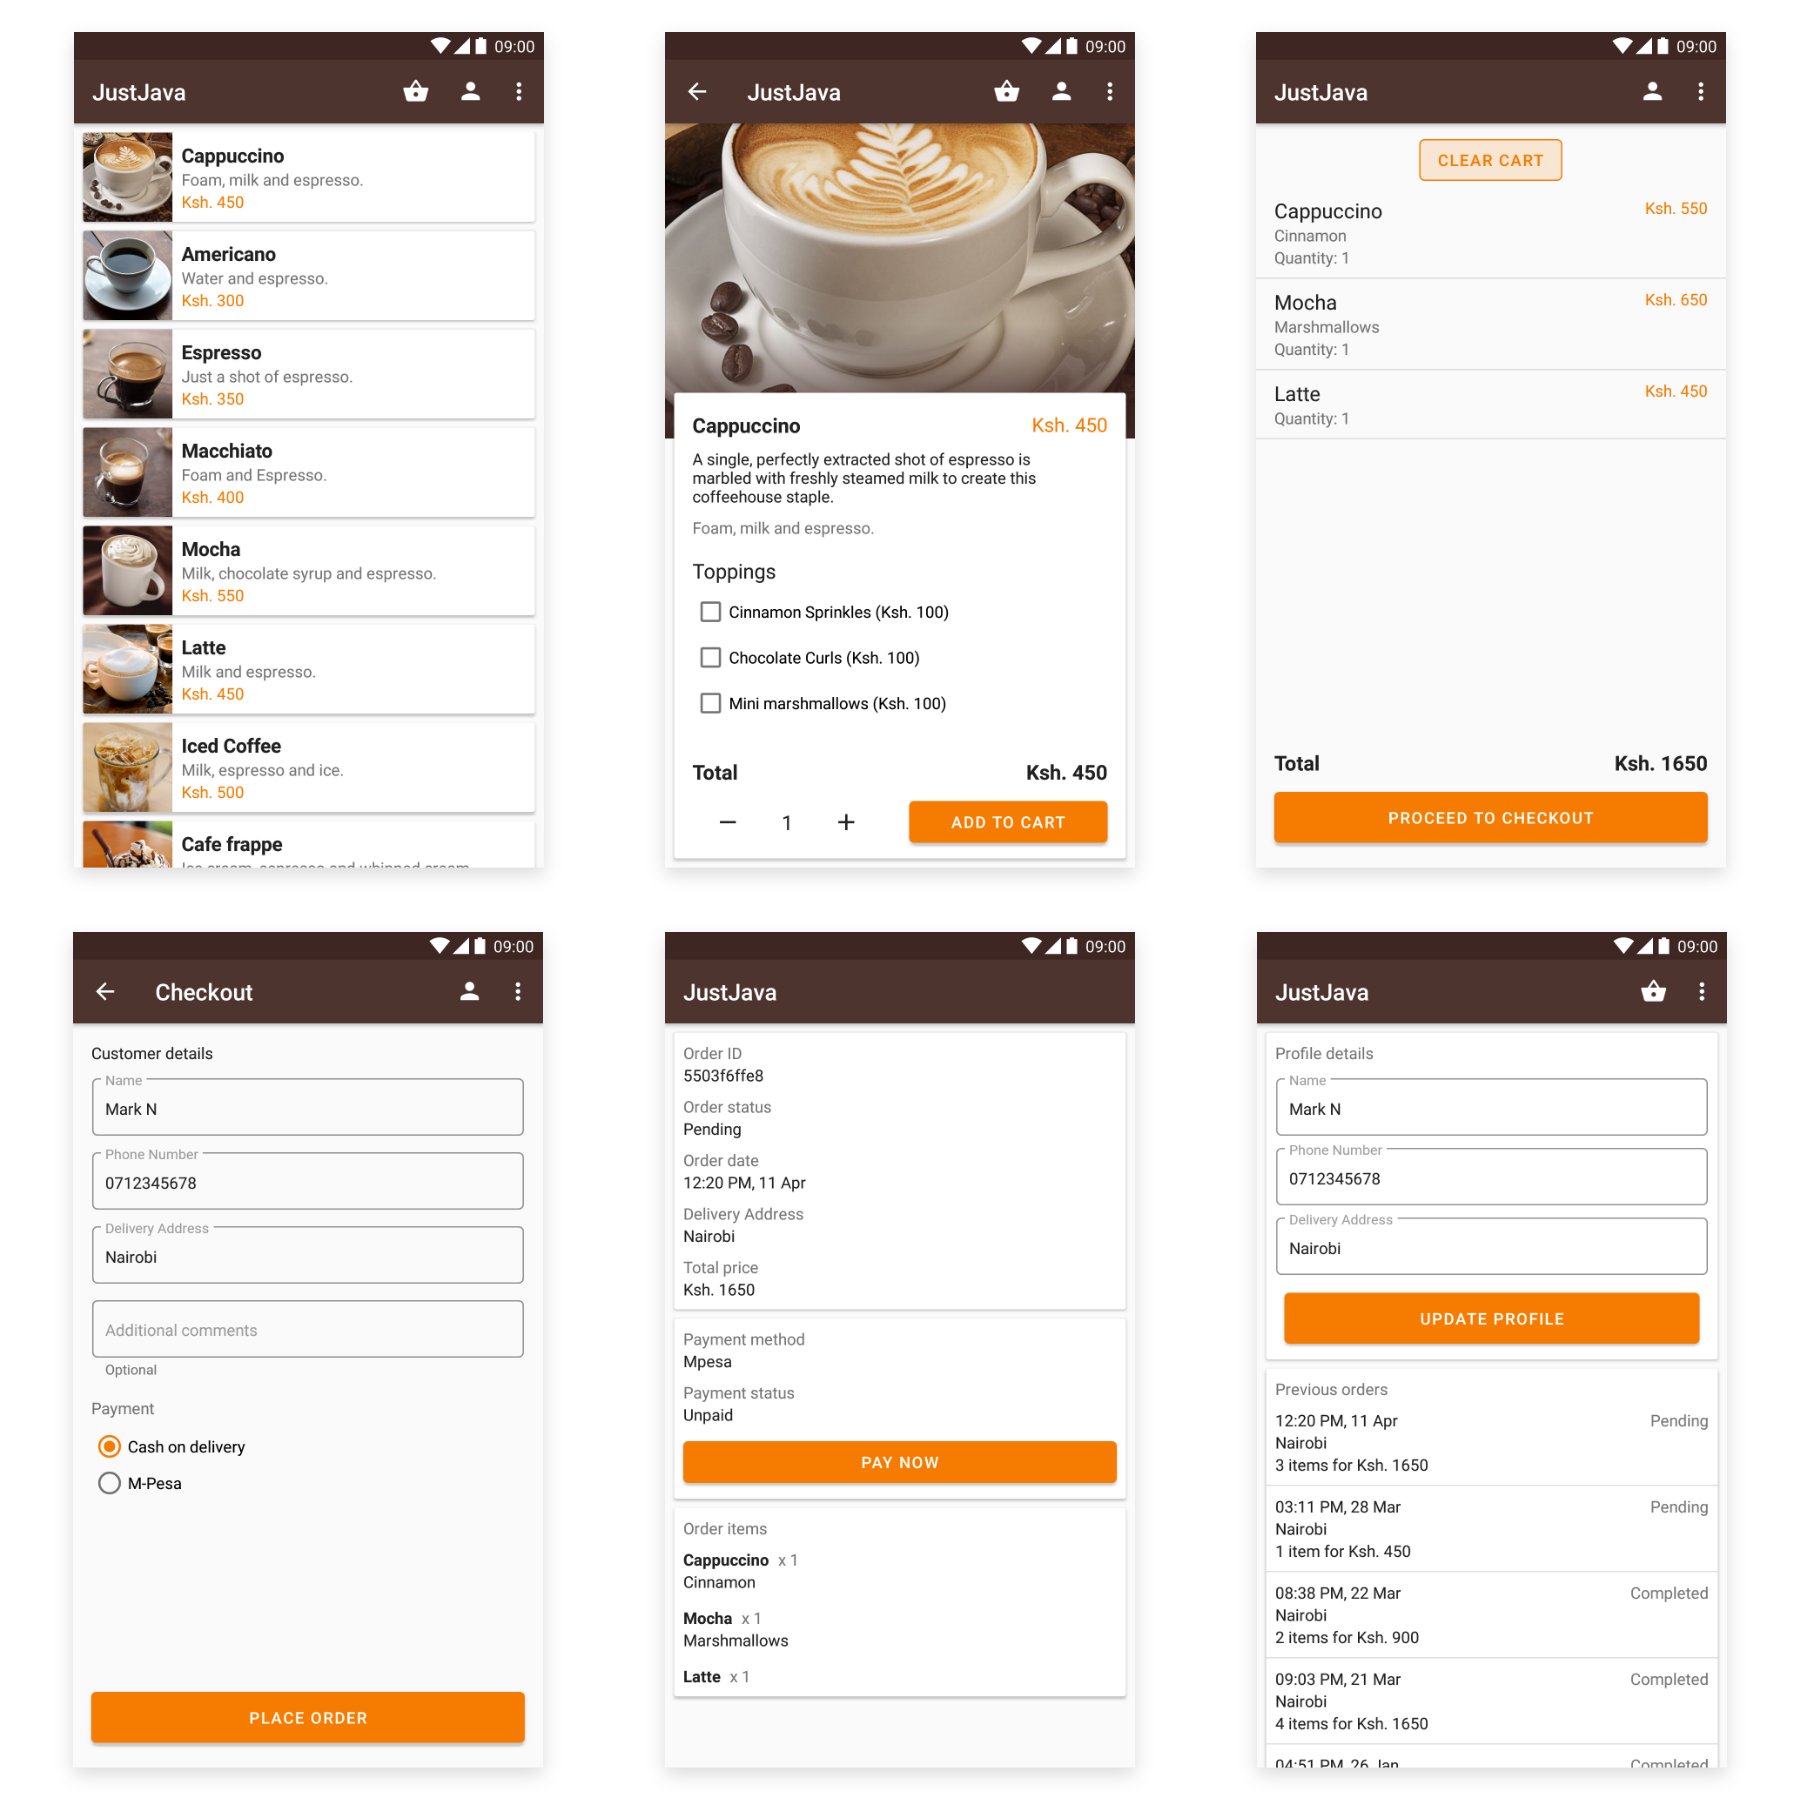
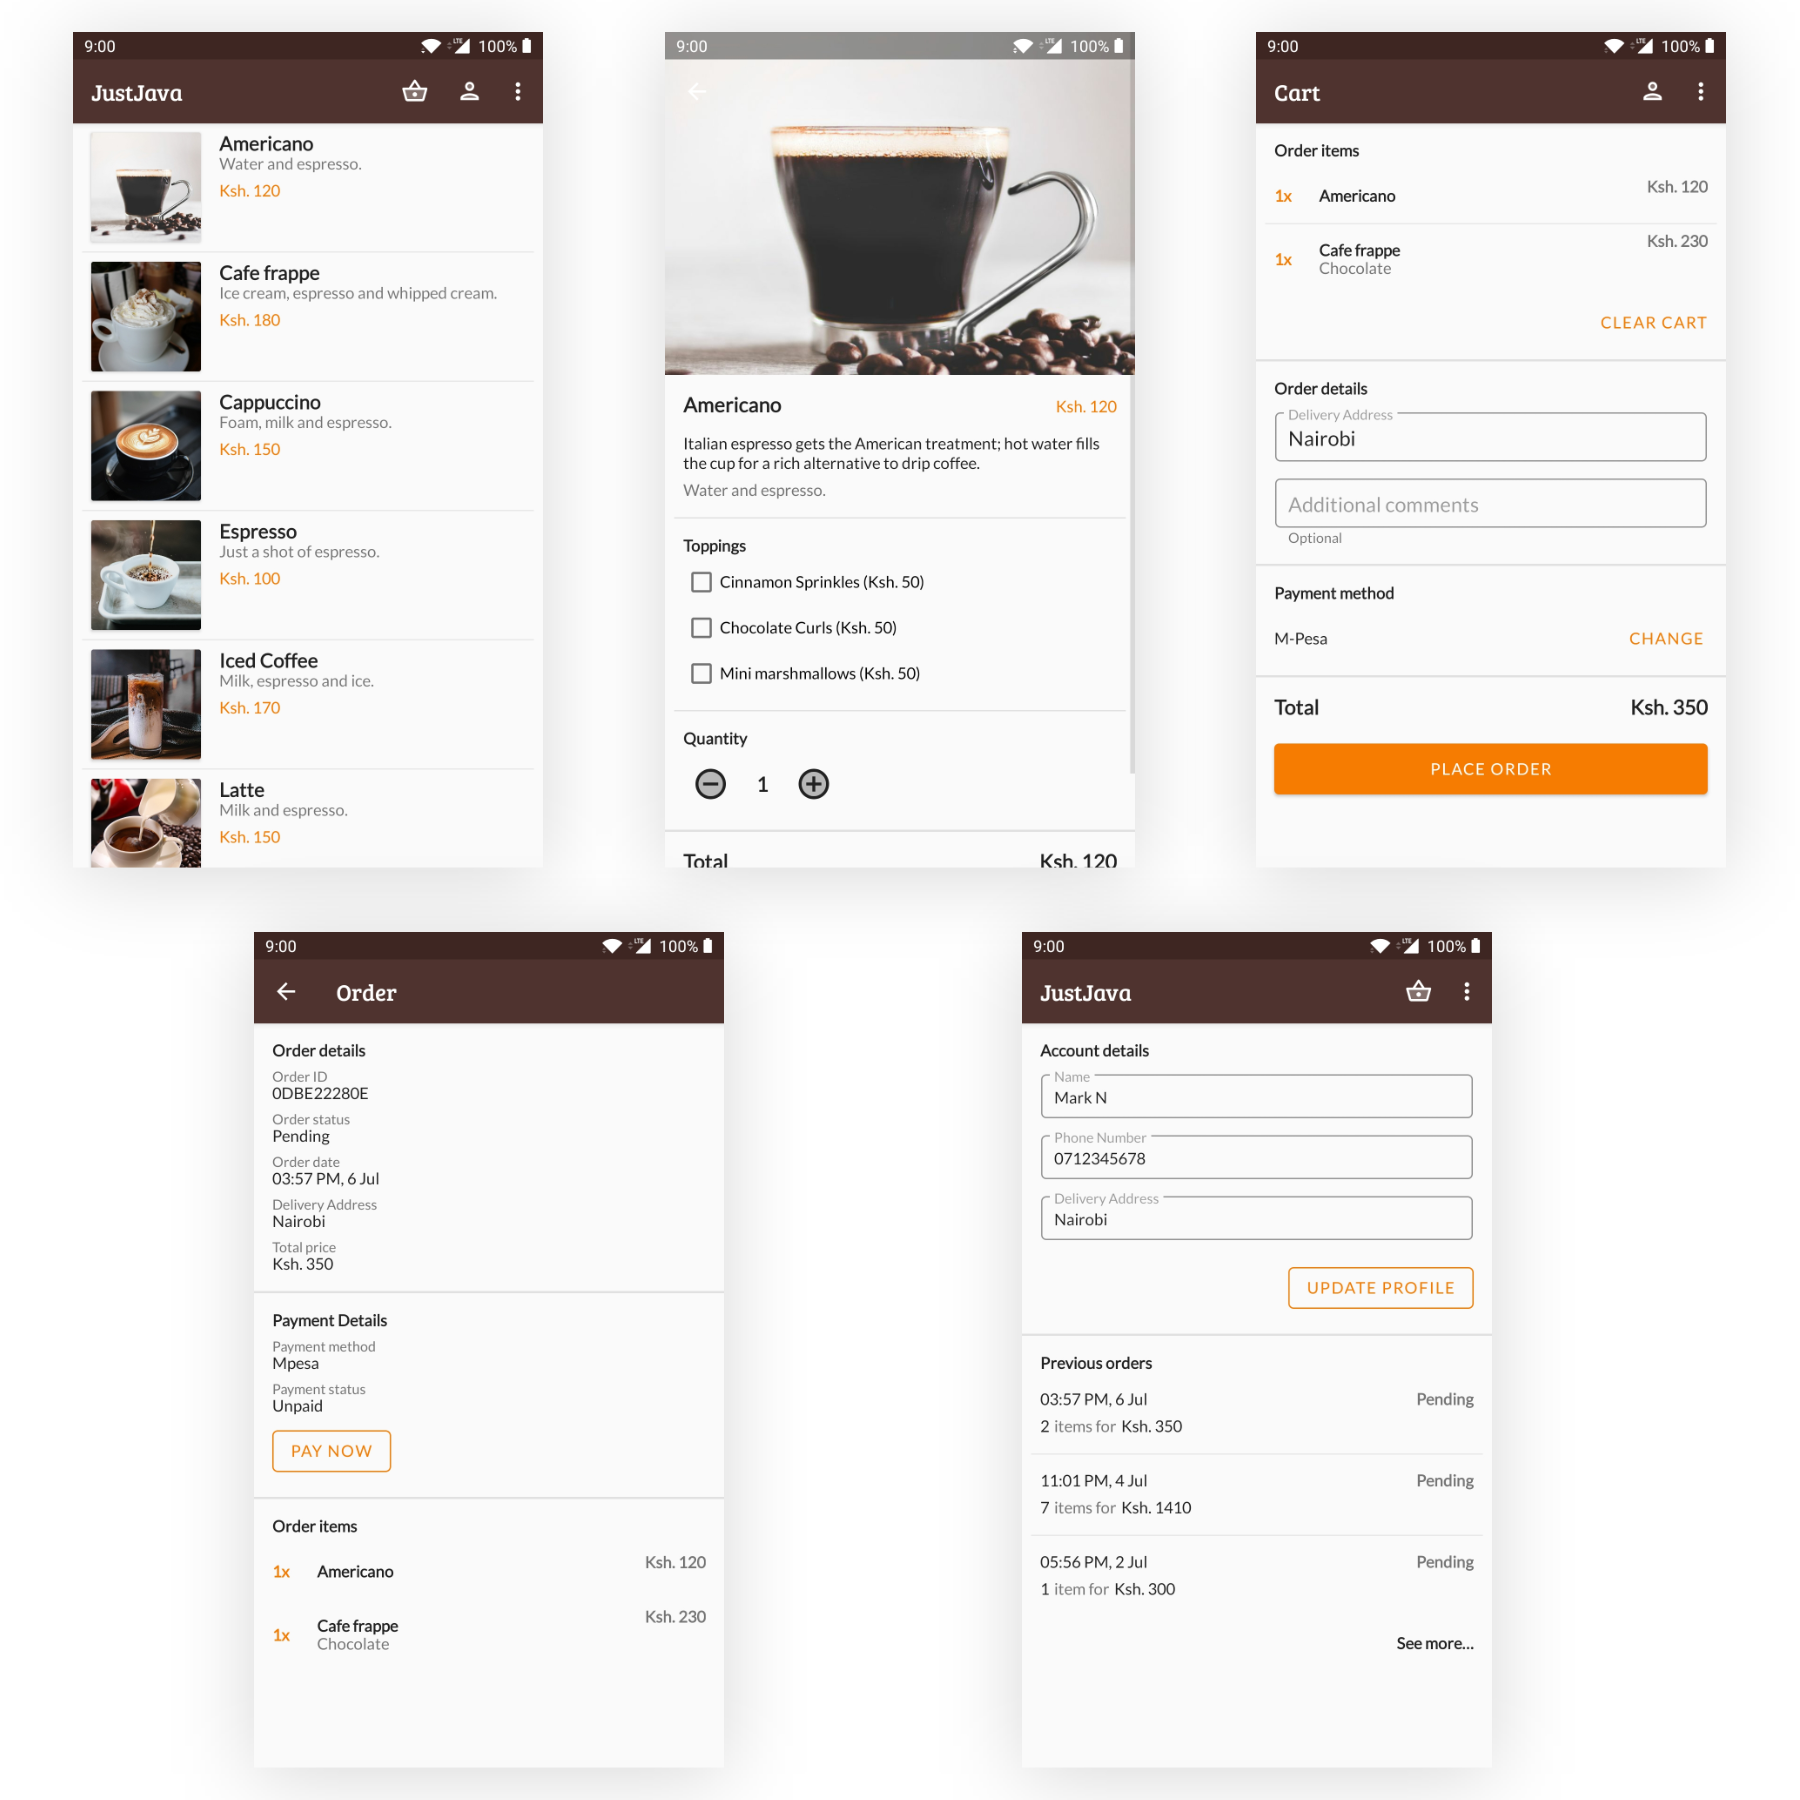
1.7.0

diff --git a/Changelog.MD b/Changelog.MD
@@ -1,38 +1,51 @@
 # JustJava changelog
 
+# 1.7.0
+
+- Update UI design
+- Remove checkout screen and combine it with cart
+- Show only the last 3 orders in the profile screen.
+- Add new screen to show all past orders
+- Change item images
+
 ## 1.6.0
-* Fix input field colors
-* Save notification token to user's profile
-* Update notifications
-* Match edit cart item dialog to match rest of app
-* Numerous UI changes
+
+- Fix input field colors
+- Save notification token to user's profile
+- Update notifications
+- Match edit cart item dialog to match rest of app
+- Numerous UI changes
 
 ## 1.5.0
-* Move open source libraries list to separate page.
-* Dialog to edit the cart shows up when an item is clicked.
-* Update profile screen design.
-* Update privacy policy url and contact email.
+
+- Move open source libraries list to separate page.
+- Dialog to edit the cart shows up when an item is clicked.
+- Update profile screen design.
+- Update privacy policy url and contact email.
 
 ## 1.4.1
-* Minor UI change from switching to new material library.
+
+- Minor UI change from switching to new material library.
 
 ## 1.4.0
-* Fix critical bug that prevented new accounts from being created.
+
+- Fix critical bug that prevented new accounts from being created.
 
 ## 1.3.0
-* Profile icon is always present.
-* Fix text wrapping on catalog.
-* Various changes to sign up.
 
-## 1.2.1 
+- Profile icon is always present.
+- Fix text wrapping on catalog.
+- Various changes to sign up.
 
-* Fix crash reporting
+## 1.2.1
+
+- Fix crash reporting
 
 ## 1.2.0
 
-* Enable editing customer details - [812538a](https://github.com/MarkNjunge/JustJava-Android/commit/812538a12dd6a16f7623ab9531135538f627a86b)
-* Fix privacy policy link - [e1d0d71](https://github.com/MarkNjunge/JustJava-Android/commit/e1d0d714cea9c928e3662d2f020a6413ff48cadf)
+- Enable editing customer details - [812538a](https://github.com/MarkNjunge/JustJava-Android/commit/812538a12dd6a16f7623ab9531135538f627a86b)
+- Fix privacy policy link - [e1d0d71](https://github.com/MarkNjunge/JustJava-Android/commit/e1d0d714cea9c928e3662d2f020a6413ff48cadf)
 
 ## 1.1.0
 
-* Fix M-Pesa payment - [a11f8a3](https://github.com/MarkNjunge/JustJava-Android/commit/a11f8a35136b1e1d2d038e7588d1070c2e4fac1c)
+- Fix M-Pesa payment - [a11f8a3](https://github.com/MarkNjunge/JustJava-Android/commit/a11f8a35136b1e1d2d038e7588d1070c2e4fac1c)
